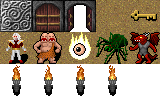
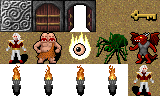
Player looks left or right accordingly

Changed region(s): [[0.7812, 0.6562, 1.0, 1.0]]

diff --git a/js/player.js b/js/player.js
@@ -4,23 +4,38 @@ var player = function()
     this.y = 1;
     
     this.has_key = false;
-    
+    this.is_looking_right = false;
+
     this.speed_delay = 4;
     this.counter_speed_delay = 0;
     
     this.draw = function()
     {
-        Game.ctx.drawImage(
-            Game.tileAtlas,
-            0,
-            map.tsize,
-            map.tsize,
-            map.tsize,
-            this.x * map.csize,
-            this.y * map.csize,
-            map.csize,
-            map.csize
-        );
+        if(this.is_looking_right) {
+            Game.ctx.drawImage(
+                Game.tileAtlas,
+                4 * map.tsize,
+                2 * map.tsize,
+                map.tsize,
+                map.tsize,
+                this.x * map.csize,
+                this.y * map.csize,
+                map.csize,
+                map.csize
+            );
+        } else {
+            Game.ctx.drawImage(
+                Game.tileAtlas,
+                0,
+                map.tsize,
+                map.tsize,
+                map.tsize,
+                this.x * map.csize,
+                this.y * map.csize,
+                map.csize,
+                map.csize
+            );
+        }
     }
     
     this.isLocatedInPosition = function(x,y)
@@ -68,6 +83,7 @@ var player = function()
                 if(this.isWall(this.x-1, this.y) == false)
                 {
                     this.x--;
+                    this.is_looking_right = false;
                 }
                 break;
                 
@@ -75,6 +91,7 @@ var player = function()
                 if(this.isWall(this.x+1, this.y) == false)
                 {
                     this.x++;
+                    this.is_looking_right = true;
                 }
                 break;
             }

diff --git a/README.md b/README.md
@@ -10,6 +10,5 @@ The tilemap has been created from [MedicineStorm's tiles](https://opengameart.or
     * https://developer.mozilla.org/en-US/docs/Web/API/Gamepad_API/Using_the_Gamepad_API
     * https://beej.us/blog/data/javascript-gamepad/
     * https://html5gamepad.com/
-* Rotate player and enemies when they move from left to right and from right to left
 * Enemies should be defined by the tilemap
 * Refactor to use Clases and extends subclasess (enemies, torches, isLocatedInPosition)
